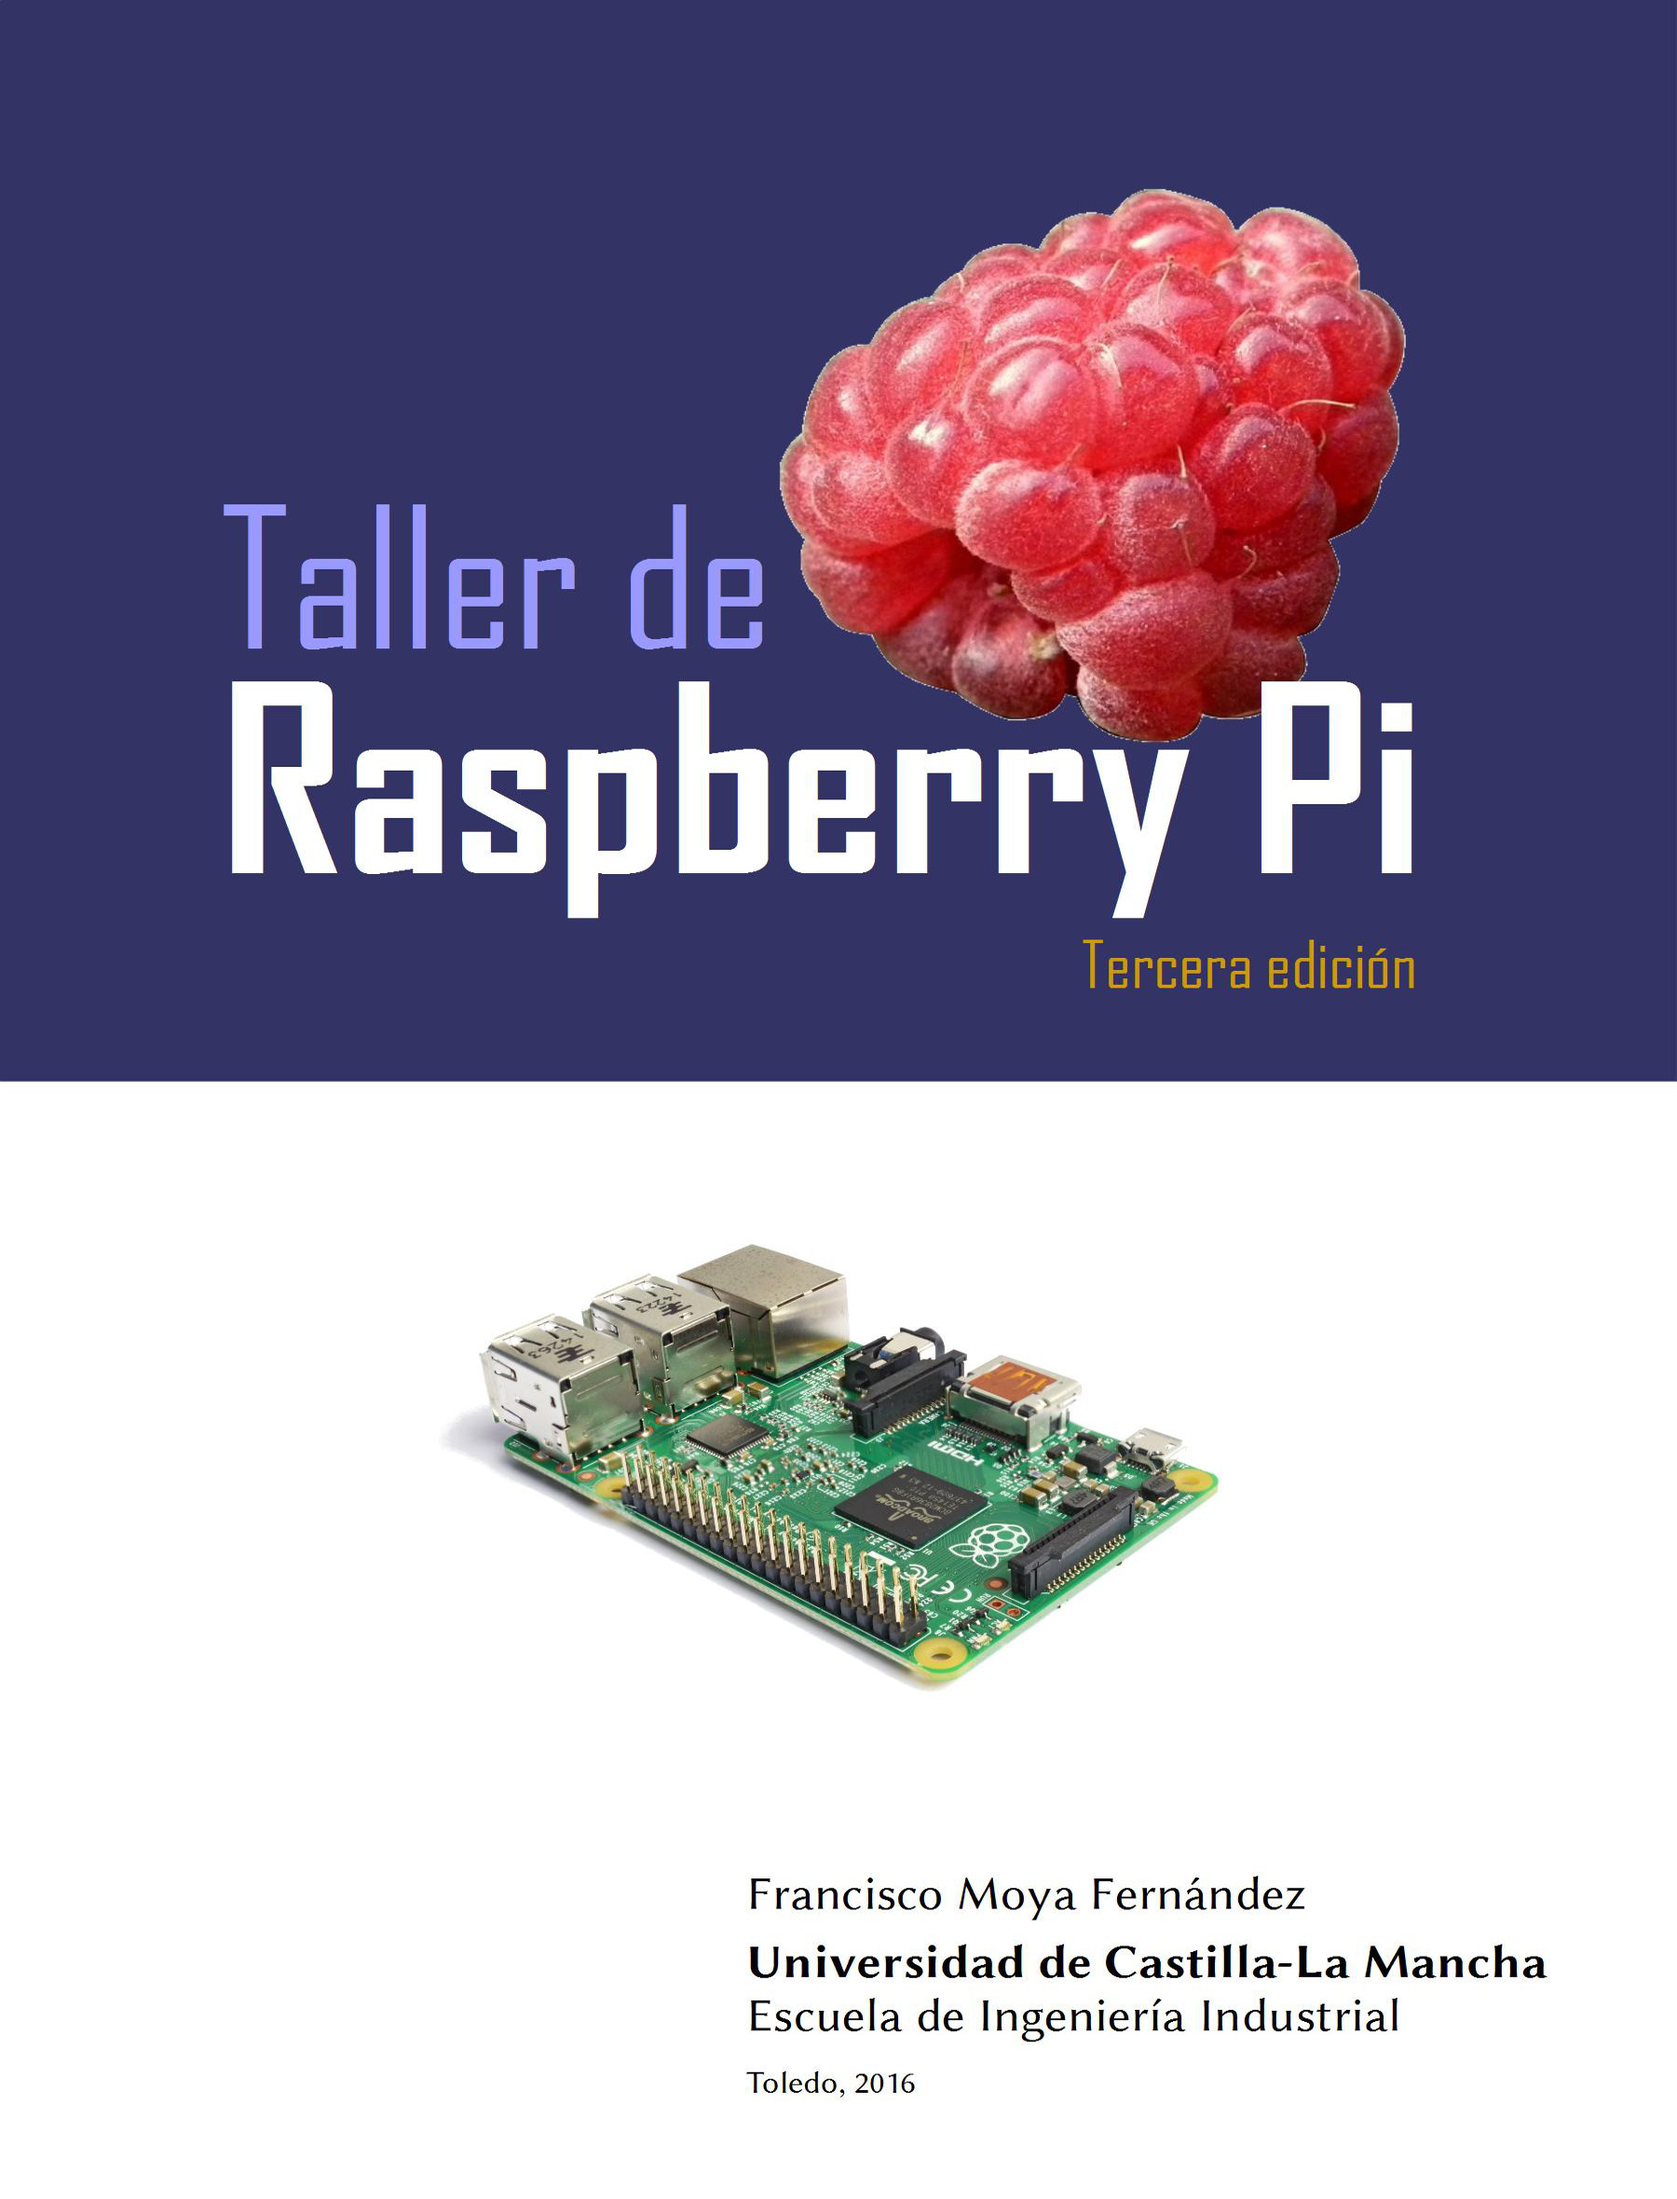
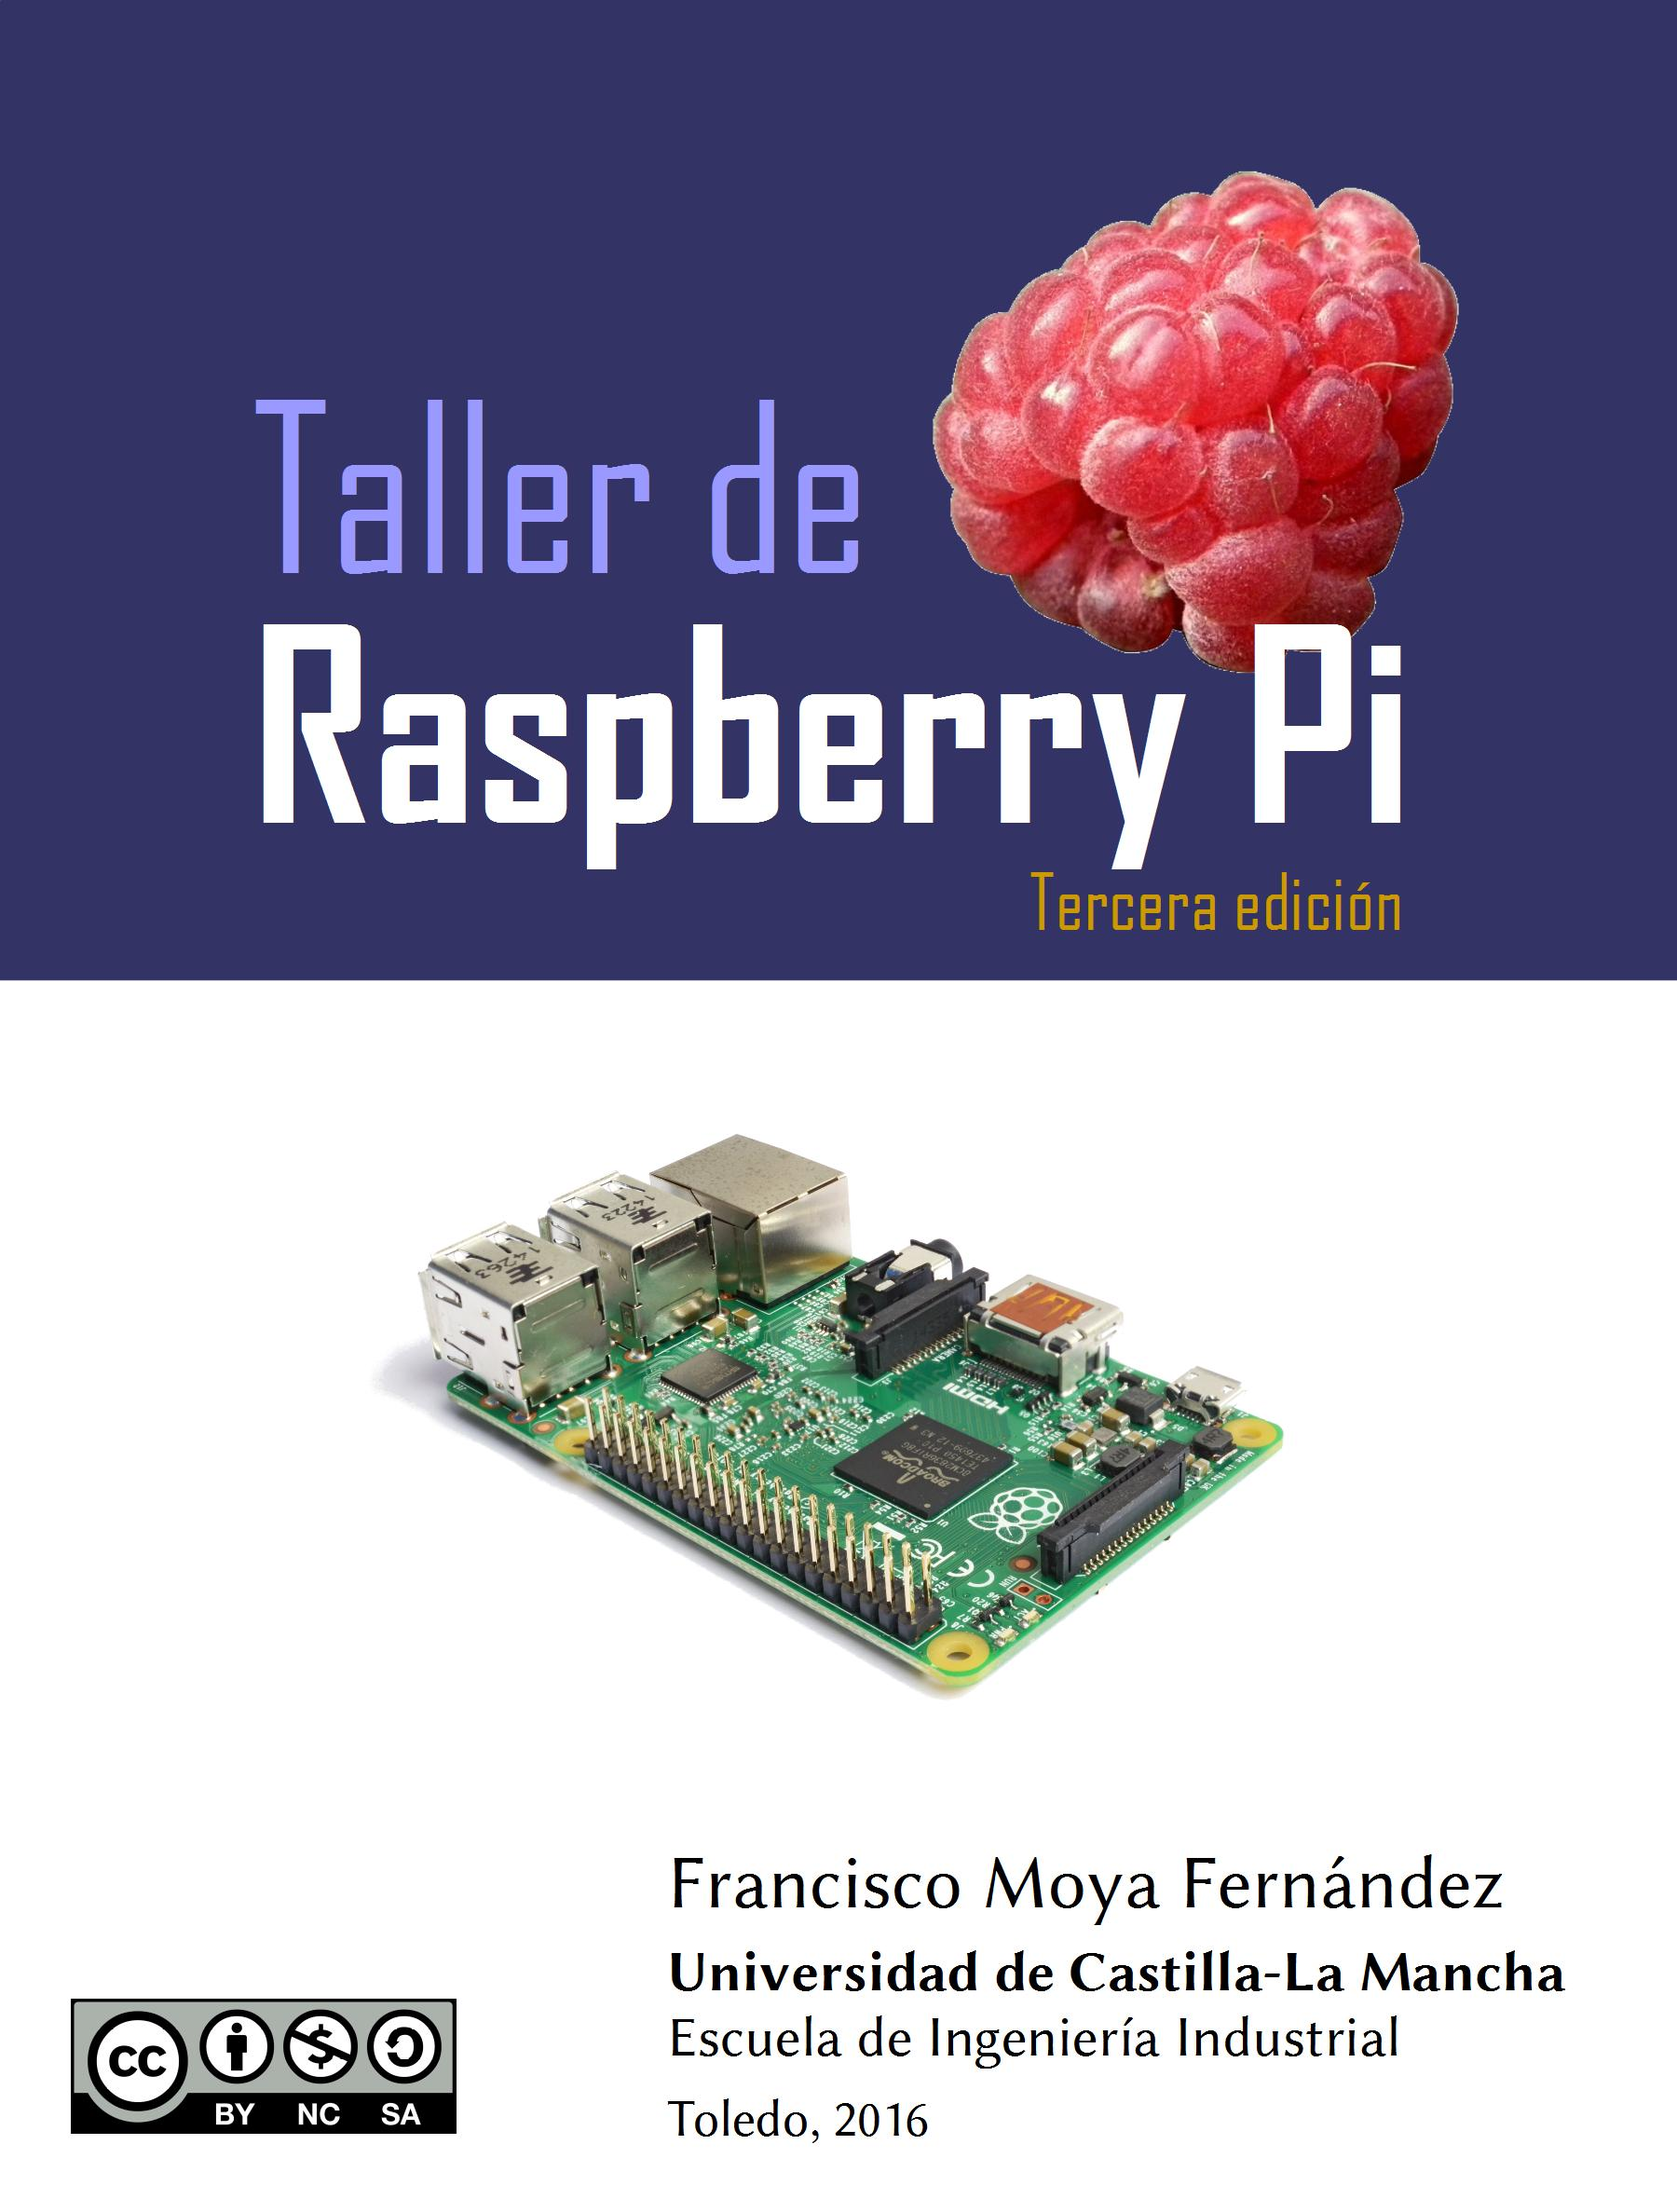
Added cc-ny-nc-sa to cover

Changed region(s): [[0.0, 0.0619, 1.0, 0.7733], [0.4044, 0.8352, 0.9333, 0.9898], [0.0311, 0.897, 0.28, 0.9898]]

diff --git a/es/intro-workshop.md b/es/intro-workshop.md
@@ -1,0 +1,20 @@
+<a rel="license" href="http://creativecommons.org/licenses/by-nc-sa/4.0/"><img alt="Licencia de Creative Commons" style="border-width:0" src="https://i.creativecommons.org/l/by-nc-sa/4.0/88x31.png" /></a><br /><span xmlns:dct="http://purl.org/dc/terms/" property="dct:title">Taller de Raspberry Pi</span> by <span xmlns:cc="http://creativecommons.org/ns#" property="cc:attributionName">Francisco Moya</span> is licensed under a <a rel="license" href="http://creativecommons.org/licenses/by-nc-sa/4.0/">Creative Commons Reconocimiento-NoComercial-CompartirIgual 4.0 Internacional License</a>.<br />Creado a partir de la obra en <a xmlns:dct="http://purl.org/dc/terms/" href="https://www.gitbook.com/book/franciscomoya/taller-de-raspberry-pi/" rel="dct:source">https://www.gitbook.com/book/franciscomoya/taller-de-raspberry-pi/</a>.
+
+# Taller de Raspberry Pi
+
+Este pequeño manual es la documentación oficial de la tercera edición
+del *Taller de iniciación a Raspberry Pi*, que se celebrará en junio
+de 2016 en la Escuela de Ingeniería Industrial de Toledo, de la
+Universidad de Castilla-La Mancha, España.
+
+Raspberry Pi es un pequeño computador diseñado inicialmente como una
+herramienta docente para enseñar a programar y electrónica digital.
+Un taller no aspira a dar unos conocimientos teóricos profundos, sino
+que tiene una orientación estrictamente práctica.
+
+Te enseñaremos lo que incluye la Raspberry Pi, cómo configurarla y
+cómo usarla para realizar tus propios proyectos.  Invertiremos un
+considerable esfuerzo en explicar cómo comunicar la Raspberry Pi con
+el mundo exterior, añadiendo sensores y actuadores de diferentes
+tipos.
+
